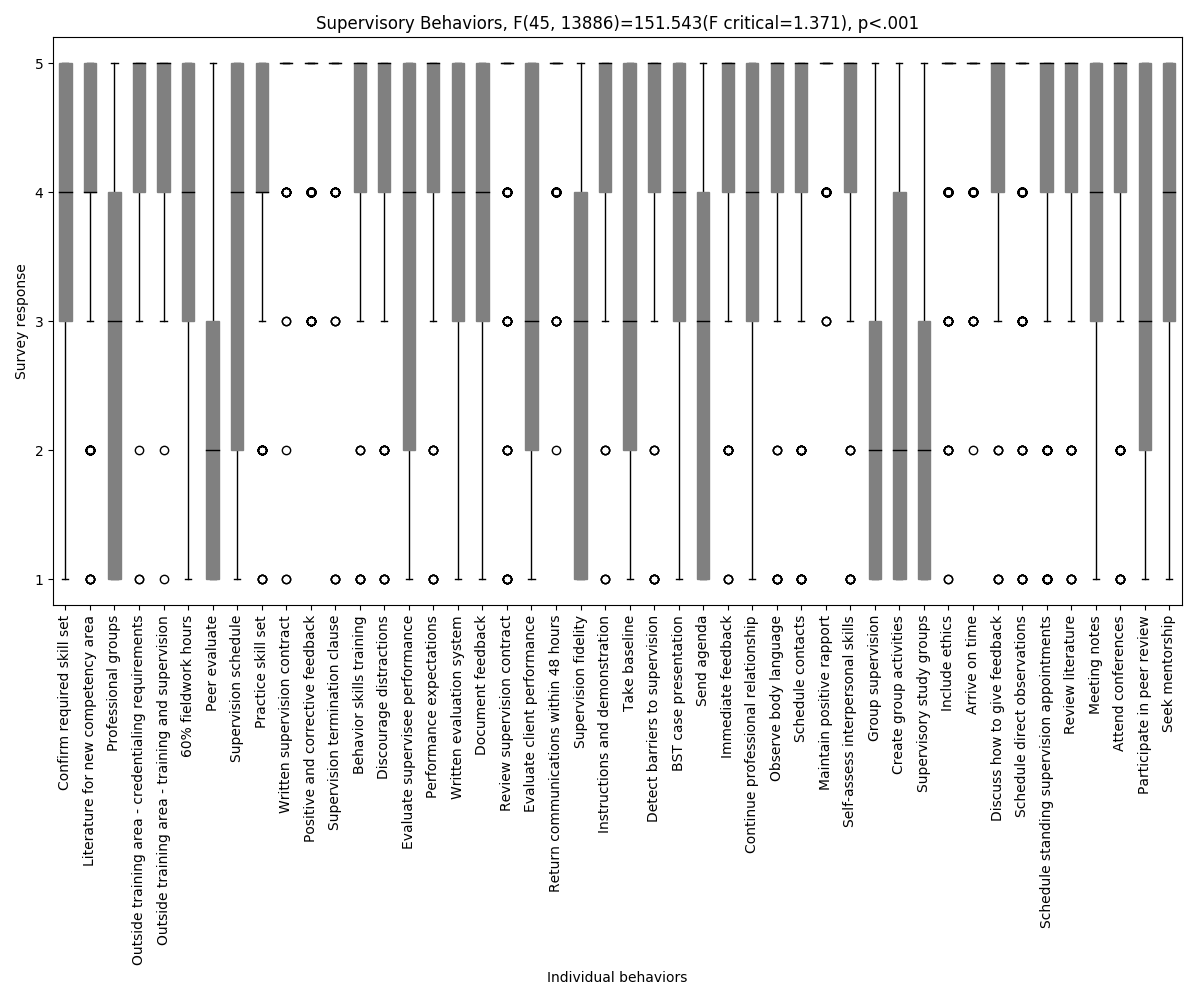
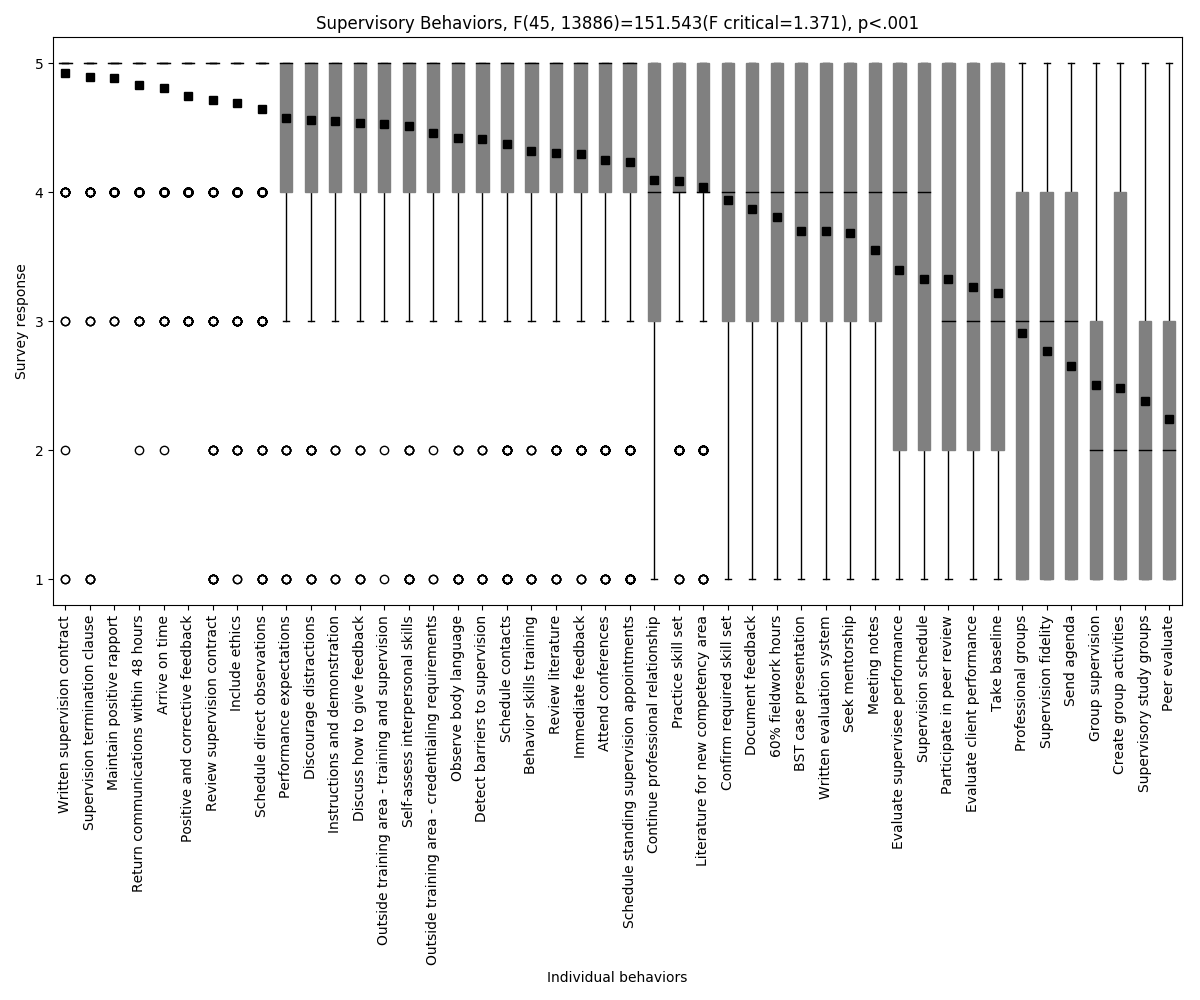
annotated boxplot with average in Q2

Changed region(s): [[0.0308, 0.062, 0.9867, 0.589], [0.0308, 0.62, 0.9867, 0.961], [0.3392, 0.558, 0.4008, 0.589]]

diff --git a/Q2/question_2.py b/Q2/question_2.py
@@ -42,11 +42,14 @@ def q2_prep():
 	# Replace text with integers
 	integers = clean_data.text_to_int(dropped_demo)
 
+	# Make supervison behaviors list
+	sup_list = clean_data.make_supervision_behaviors_list()
+
 	# RESEARCH QUESTION 2
-	question2(integers)
+	question2(integers, sup_list)
 	
 
-def question2(df):
+def question2(df, bx_lst):
 	''' answers research question 2'''
 
 	# change directory
@@ -67,20 +70,35 @@ def question2(df):
 	n_lists = len(data)
 	dfn = n_lists - 1
 
+	# Make a list to hold averages
+	avg_lst = []
+
 	# Sum up the number of data points in each list then subtract the number of lists to get
 	# degrees of freedom denominator (dfd)
 	dfd = 0
 	for each_list in data:
 		dfd += len(each_list)
+		avg_lst.append(round(np.mean(each_list), 3))
+
+
+	# Convert list to dataframe
+	avg = pd.DataFrame({'average':avg_lst}, index=df.columns)
+	avg = avg.sort_values(by='average', ascending=False)
+	print(avg)
+	avg.to_csv('averages.csv')
 
 	dfd = dfd - n_lists
 
 	# Calculate the critical F value
 	Fcrit = stats.f.ppf(q=1-0.05, dfn=dfn, dfd=dfd)
 
+	# Sort dataframe in descending order
+	df = df.reindex(df.mean().sort_values(ascending=False).index, axis=1)
+
 	# Make a boxplot	
 	color = dict(boxes='gray', whiskers='black', medians='black', caps='black')
-	_ = df.plot.box(color=color, patch_artist=True) #notch=1)
+	meanpointprops = dict(marker='s', markeredgecolor='black', markerfacecolor='black')
+	_ = df.plot.box(color=color, patch_artist=True, meanprops=meanpointprops, showmeans=True)
 	_ = plt.yticks(np.arange(1, 5+1, step=1))
 	_ = plt.xticks(rotation=90)
 	_ = plt.xlabel('Individual behaviors')
